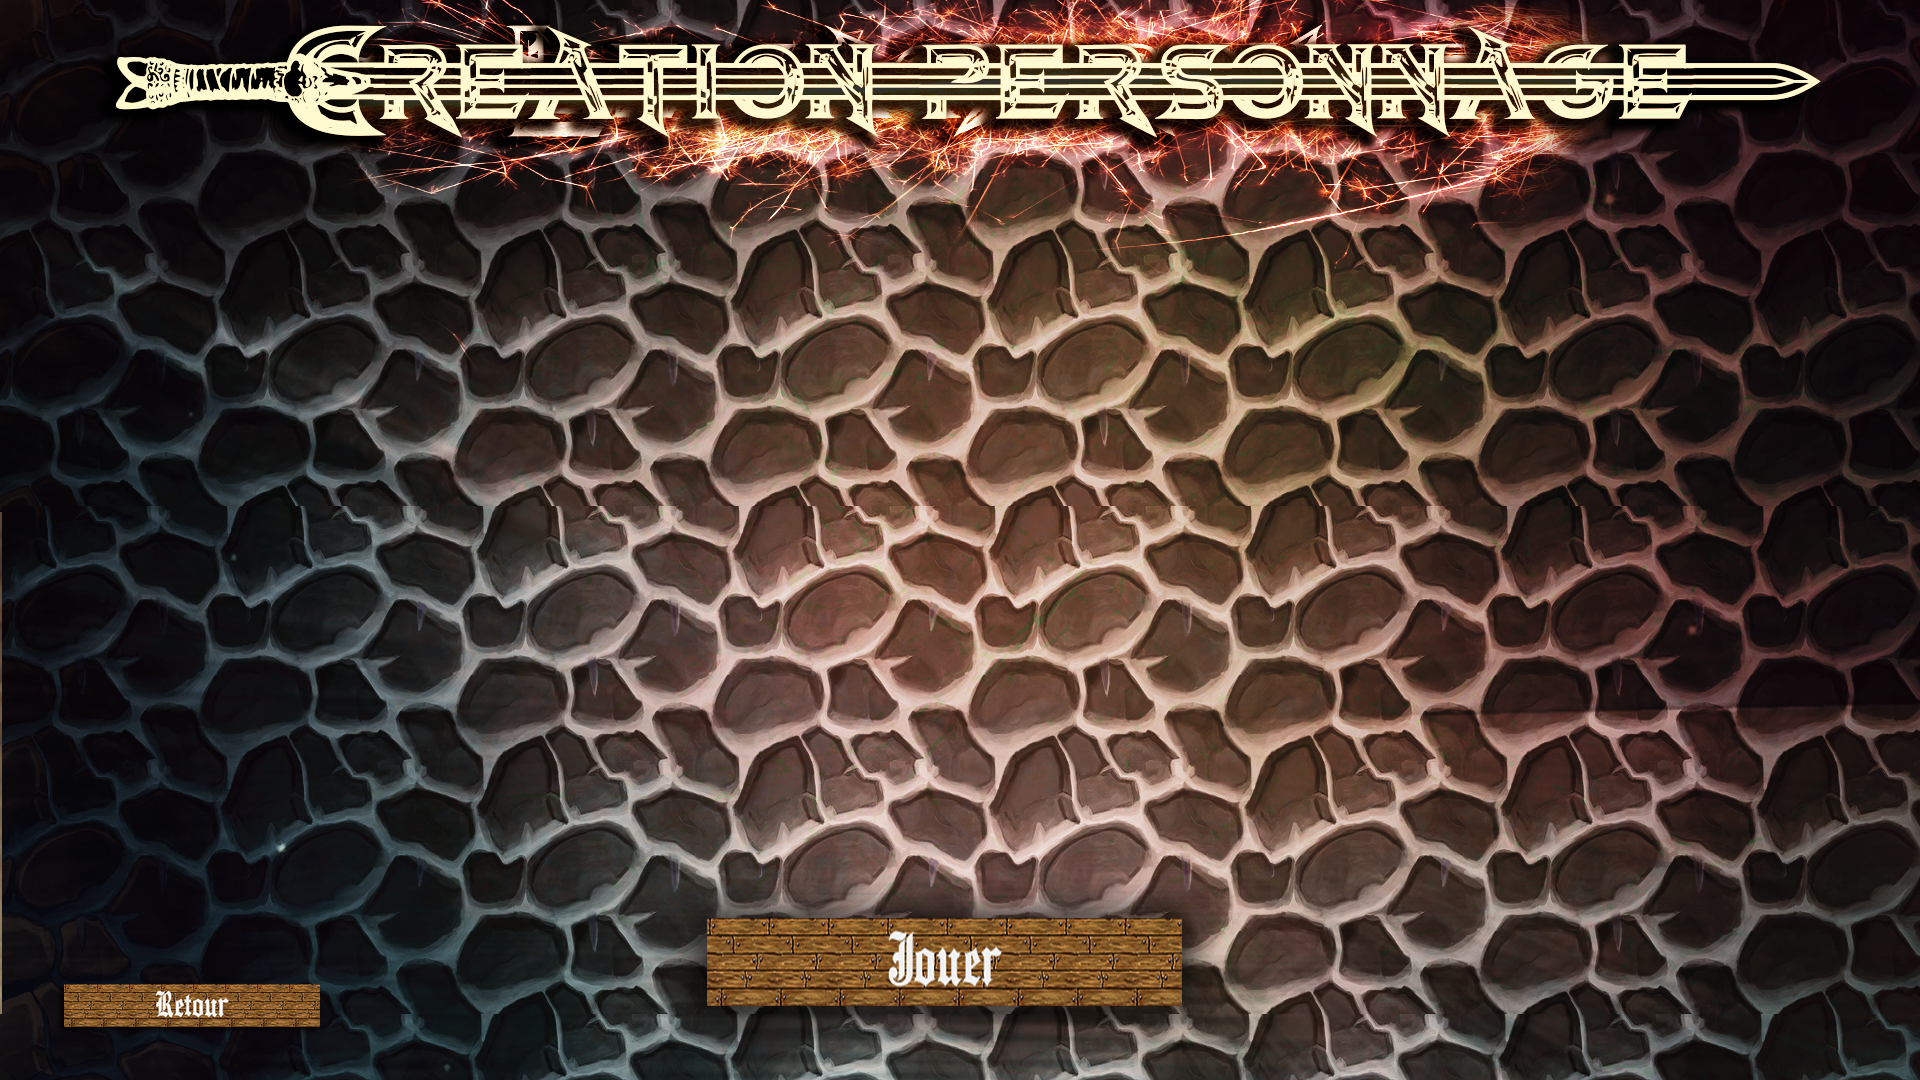
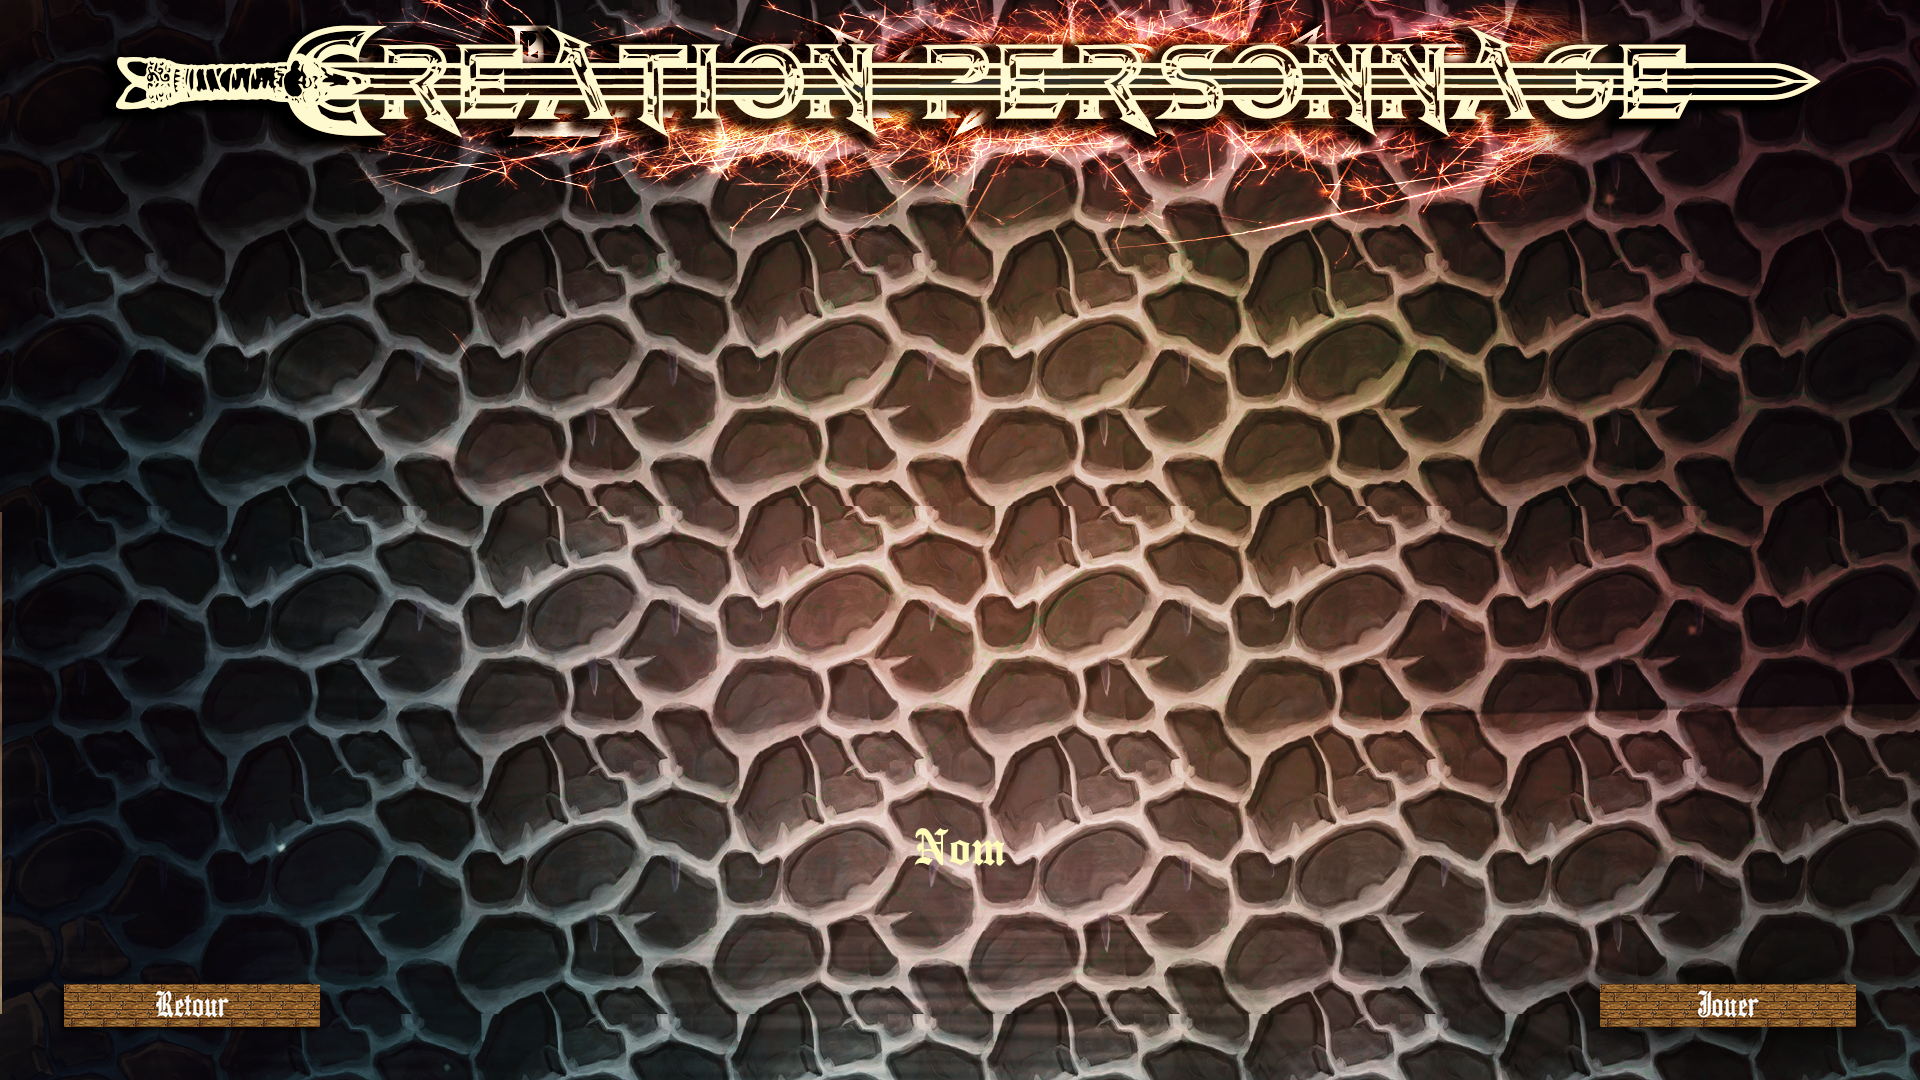
ajout menu

Changed region(s): [[0.3438, 0.7639, 0.625, 0.9778], [0.8125, 0.8861, 0.9688, 0.9778]]

diff --git a/src/vue/FenetreCreationPersonnage.java b/src/vue/FenetreCreationPersonnage.java
@@ -26,10 +26,10 @@ public class FenetreCreationPersonnage extends JPanel {
         this.setLayout(null);
         setPreferredSize(new Dimension(X, Y));
 
-        jouer = new JButton("Jouer");
+        jouer = new JButton("");
         jouer.setActionCommand("Jouer");
 
-        lNomHero = new JLabel("Nom");
+        lNomHero = new JLabel("");
         tfNomHero = new JTextField();
         tfNomHero.setColumns(10);
 
